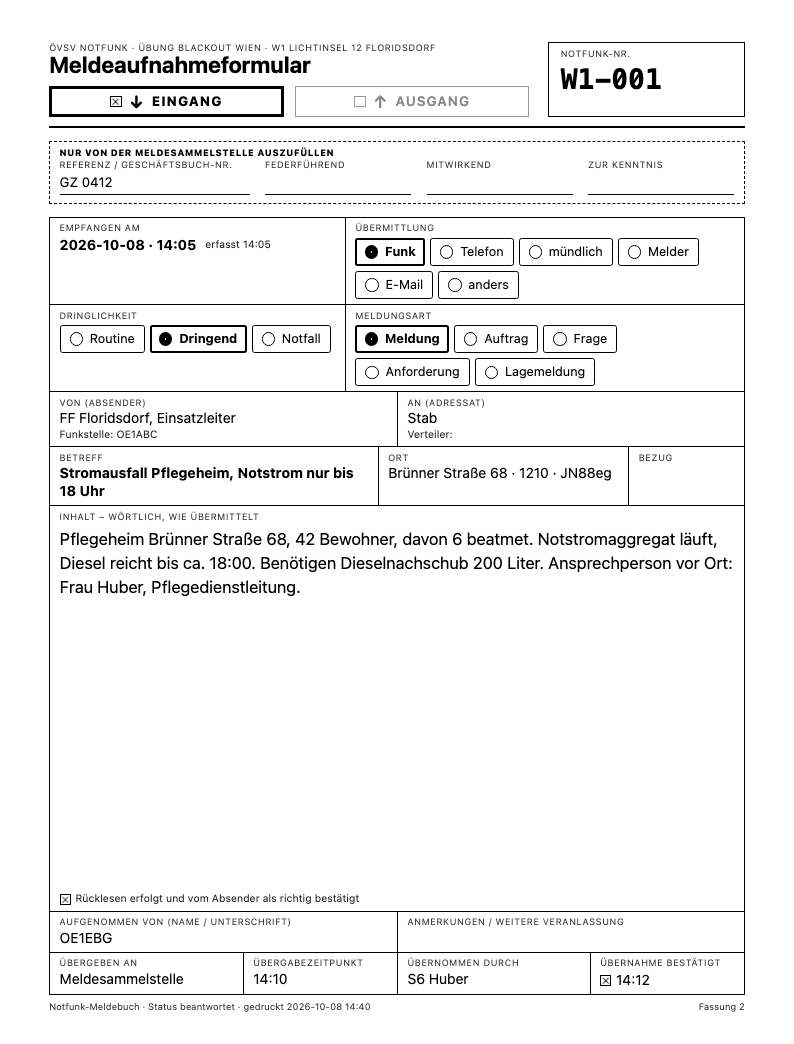
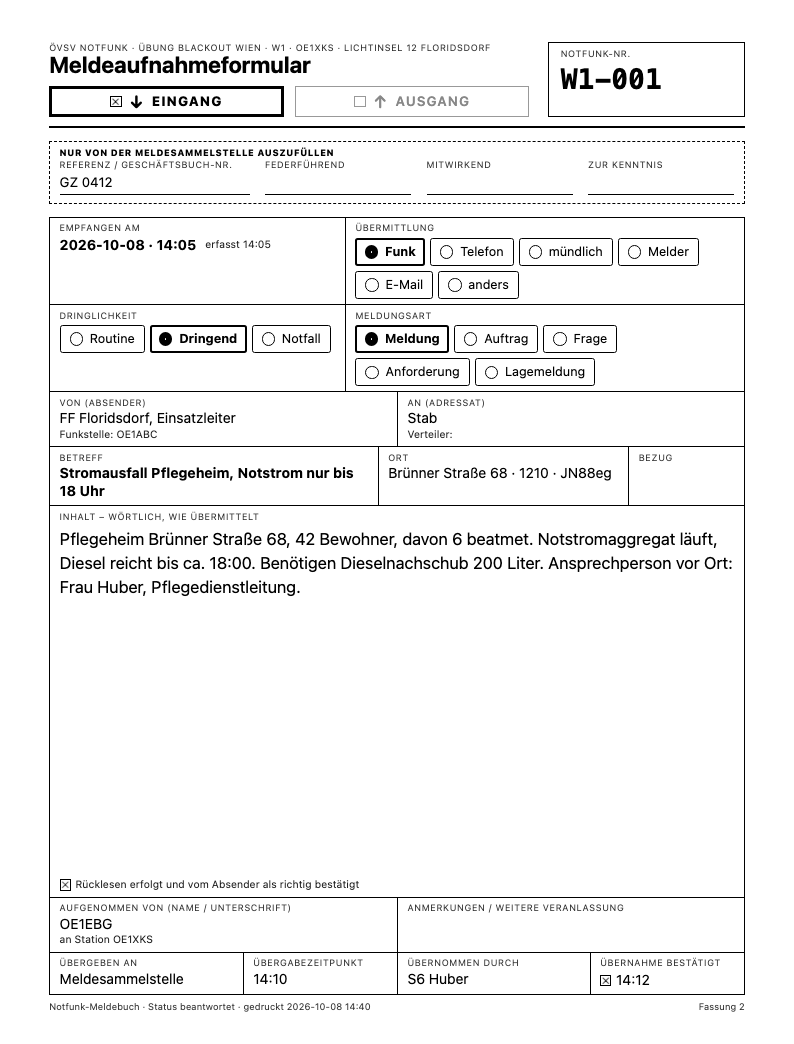
feat(notfunk): own station callsign, Einsatz fields in groups
- New Einsatz field "Stationsrufzeichen" (e.g. a club station OE1XKS,
  apart from the operator OE1EBG), kept with every message as
  stationCall like the operator: form head ("Station OE1XKS ·
  Aufnahme OE1EBG"), Einsatz summary, printout header and "an Station"
  under "Aufgenommen von", CSV column "Stationsrufzeichen", book printout.
- Einsatz fields in groups (variant A): Einsatz (name, code), "Eigene
  Station" (callsign, "Standort der Station (Adresse)", Für Stelle,
  frequency, relay), "Am Gerät" (operator).
- Book list: below Von → An by radio the Funkstelle and "via <relay>"
  or "direkt" (then the frequency); other channels as before.

Changed region(s): [[0.0605, 0.8276, 0.4534, 0.9195], [0.5139, 0.8582, 0.7859, 0.8889], [0.3627, 0.0307, 0.6045, 0.0613]]

diff --git a/tools/notfunk/index.html b/tools/notfunk/index.html
@@ -72,22 +72,35 @@
         <label class="field span-2"><span>Einsatz / Übung</span>
           <input id="n-name" required enterkeyhint="next" placeholder="z. B. Übung Blackout Wien"></label>
         <label class="field"><span>Stationskürzel</span>
-          <input id="n-prefix" required maxlength="6" class="mono" autocapitalize="characters" autocorrect="off" spellcheck="false" enterkeyhint="next" placeholder="W1" aria-describedby="n-prefix-help"></label>
-        <label class="field span-2"><span>Standort der Station</span>
-          <input id="n-station" enterkeyhint="next" placeholder="z. B. Einsatzleitstelle, Lichtinsel 12" aria-describedby="n-station-help"></label>
-        <div class="field ac-field"><label for="n-operator">Operator</label>
-          <div class="ac-wrap"><input id="n-operator" class="mono call-input" autocapitalize="characters" autocorrect="off" spellcheck="false" enterkeyhint="next" aria-describedby="n-operator-info"><div id="n-operator-pop" class="ac-pop"></div></div>
-          <div class="ac-hints"><div id="n-operator-info" class="ac-info" aria-live="polite"></div></div></div>
-        <label class="field"><span>Für Stelle</span>
-          <input id="n-home" enterkeyhint="next" placeholder="Stab" aria-describedby="n-home-help"></label>
-        <label class="field"><span>Frequenz MHz</span>
-          <input id="n-freq" class="mono" inputmode="decimal" enterkeyhint="next" placeholder="145.500"></label>
-        <div class="field ac-field"><label for="n-via">Relais</label>
-          <div class="ac-wrap"><input id="n-via" class="mono call-input" autocapitalize="characters" autocorrect="off" spellcheck="false" enterkeyhint="done" aria-describedby="n-via-info"><div id="n-via-pop" class="ac-pop"></div></div>
-          <div class="ac-hints"><div id="n-via-info" class="ac-info" aria-live="polite"></div></div></div>
+          <input id="n-prefix" required maxlength="6" class="mono call-input" autocapitalize="characters" autocorrect="off" spellcheck="false" enterkeyhint="next" placeholder="W1" aria-describedby="n-prefix-help"></label>
       </div>
+      <fieldset class="op-group">
+        <legend>Eigene Station</legend>
+        <div class="grid-form op-grid">
+          <div class="field"><label for="n-call">Stationsrufzeichen</label>
+            <input id="n-call" class="mono call-input" autocapitalize="characters" autocorrect="off" spellcheck="false" enterkeyhint="next" placeholder="OE1XKS" aria-describedby="n-call-info" title="Rufzeichen der eigenen Funkstation, z. B. die Klubstation; kann vom Rufzeichen des Operators abweichen">
+            <div class="ac-hints"><div id="n-call-info" class="ac-info" aria-live="polite"></div></div></div>
+          <label class="field span-2"><span>Standort der Station (Adresse)</span>
+            <input id="n-station" enterkeyhint="next" placeholder="z. B. Lichtinsel 12, Brünner Straße 68" aria-describedby="n-station-help" title="Wo das eigene Funkgerät steht (steht oben im Ausdruck)"></label>
+          <label class="field"><span>Für Stelle</span>
+            <input id="n-home" enterkeyhint="next" placeholder="Stab" aria-describedby="n-home-help" title="Für wen die Station arbeitet, z. B. Stab: Vorgabe für An (Eingang) bzw. Von (Ausgang)"></label>
+          <label class="field"><span>Frequenz MHz</span>
+            <input id="n-freq" class="mono" inputmode="decimal" enterkeyhint="next" placeholder="145.500"></label>
+          <div class="field ac-field"><label for="n-via">Relais</label>
+            <div class="ac-wrap"><input id="n-via" class="mono call-input" autocapitalize="characters" autocorrect="off" spellcheck="false" enterkeyhint="next" aria-describedby="n-via-info"><div id="n-via-pop" class="ac-pop"></div></div>
+            <div class="ac-hints"><div id="n-via-info" class="ac-info" aria-live="polite"></div></div></div>
+        </div>
+      </fieldset>
+      <fieldset class="op-group">
+        <legend>Am Gerät</legend>
+        <div class="grid-form op-grid">
+          <div class="field ac-field"><label for="n-operator">Operator</label>
+            <div class="ac-wrap"><input id="n-operator" class="mono call-input" autocapitalize="characters" autocorrect="off" spellcheck="false" enterkeyhint="done" aria-describedby="n-operator-info" title="Wer hier am Gerät aufnimmt; beim Schichtwechsel ändern"><div id="n-operator-pop" class="ac-pop"></div></div>
+            <div class="ac-hints"><div id="n-operator-info" class="ac-info" aria-live="polite"></div></div></div>
+        </div>
+      </fieldset>
       <p class="hint" id="n-prefix-help">Das Kürzel steht vor jeder Nummer (W1-001, W1-002 …). Jedes Gerät bzw. jede Station eines Einsatzes bekommt ein eigenes Kürzel, dann lassen sich die Bücher ohne doppelte Nummern zusammenführen.</p>
-      <p class="hint" id="n-station-help">Standort der Station: wo das eigene Funkgerät steht (steht oben im Ausdruck).</p>
+      <p class="hint" id="n-station-help">Stationsrufzeichen und Standort der Station (Adresse): die eigene Funkstation, z. B. OE1XKS in der Lichtinsel 12; das Rufzeichen kann vom Operator abweichen. Beides steht oben im Ausdruck.</p>
       <p class="hint" id="n-home-help">Für Stelle: für wen die Station arbeitet, z. B. Stab. Steht bei neuen Meldungen als Adressat eingehender und Absender ausgehender Meldungen, solange nichts anderes eingetragen ist.</p>
       <div class="toolbar form-foot">
         <button type="submit" class="primary">Einsatz anlegen</button>
@@ -138,21 +151,39 @@
 
     <details class="hdr" id="op-panel">
       <summary><b>Einsatz</b> <span class="hdr-sum" id="op-sum"></span></summary>
-      <div class="body">
-        <div class="grid-form op-grid" id="op-form">
-          <label class="field span-2"><span>Einsatz / Übung</span><input id="e-name" enterkeyhint="next"></label>
-          <label class="field"><span>Stationskürzel</span><input id="e-prefix" maxlength="6" class="mono call-input" autocapitalize="characters" autocorrect="off" spellcheck="false" enterkeyhint="next" aria-describedby="e-prefix-help"></label>
-          <label class="field span-2"><span>Standort der Station</span><input id="e-station" enterkeyhint="next" title="Wo das eigene Funkgerät steht (steht oben im Ausdruck)"></label>
-          <div class="field ac-field"><label for="e-operator">Operator</label>
-          <div class="ac-wrap"><input id="e-operator" class="mono call-input" autocapitalize="characters" autocorrect="off" spellcheck="false" enterkeyhint="next" aria-describedby="e-operator-info"><div id="e-operator-pop" class="ac-pop"></div></div>
-          <div class="ac-hints"><div id="e-operator-info" class="ac-info" aria-live="polite"></div></div></div>
-          <label class="field"><span>Für Stelle</span><input id="e-home" enterkeyhint="next" title="Für wen die Station arbeitet, z. B. Stab: Vorgabe für An (Eingang) bzw. Von (Ausgang)"></label>
-          <label class="field"><span>Frequenz MHz</span><input id="e-freq" class="mono" inputmode="decimal" enterkeyhint="next"></label>
-          <div class="field ac-field"><label for="e-via">Relais</label>
-          <div class="ac-wrap"><input id="e-via" class="mono call-input" autocapitalize="characters" autocorrect="off" spellcheck="false" enterkeyhint="done" aria-describedby="e-via-info"><div id="e-via-pop" class="ac-pop"></div></div>
-          <div class="ac-hints"><div id="e-via-info" class="ac-info" aria-live="polite"></div></div></div>
+      <div class="body" id="op-form">
+        <div class="grid-form op-grid">
+          <label class="field span-2"><span>Einsatz / Übung</span>
+            <input id="e-name" enterkeyhint="next"></label>
+          <label class="field"><span>Stationskürzel</span>
+            <input id="e-prefix" maxlength="6" class="mono call-input" autocapitalize="characters" autocorrect="off" spellcheck="false" enterkeyhint="next" aria-describedby="e-prefix-help"></label>
         </div>
-        <p class="hint">Änderungen gelten für neue Meldungen; gespeicherte behalten Operator, Frequenz und Nummer vom Zeitpunkt der Aufnahme. Ein Operatorwechsel (Schichtwechsel) wird hier eingetragen.</p>
+        <fieldset class="op-group">
+          <legend>Eigene Station</legend>
+          <div class="grid-form op-grid">
+            <div class="field"><label for="e-call">Stationsrufzeichen</label>
+              <input id="e-call" class="mono call-input" autocapitalize="characters" autocorrect="off" spellcheck="false" enterkeyhint="next" aria-describedby="e-call-info" title="Rufzeichen der eigenen Funkstation, z. B. die Klubstation; kann vom Rufzeichen des Operators abweichen">
+              <div class="ac-hints"><div id="e-call-info" class="ac-info" aria-live="polite"></div></div></div>
+            <label class="field span-2"><span>Standort der Station (Adresse)</span>
+              <input id="e-station" enterkeyhint="next" title="Wo das eigene Funkgerät steht (steht oben im Ausdruck)"></label>
+            <label class="field"><span>Für Stelle</span>
+              <input id="e-home" enterkeyhint="next" title="Für wen die Station arbeitet, z. B. Stab: Vorgabe für An (Eingang) bzw. Von (Ausgang)"></label>
+            <label class="field"><span>Frequenz MHz</span>
+              <input id="e-freq" class="mono" inputmode="decimal" enterkeyhint="next"></label>
+            <div class="field ac-field"><label for="e-via">Relais</label>
+              <div class="ac-wrap"><input id="e-via" class="mono call-input" autocapitalize="characters" autocorrect="off" spellcheck="false" enterkeyhint="next" aria-describedby="e-via-info"><div id="e-via-pop" class="ac-pop"></div></div>
+              <div class="ac-hints"><div id="e-via-info" class="ac-info" aria-live="polite"></div></div></div>
+          </div>
+        </fieldset>
+        <fieldset class="op-group">
+          <legend>Am Gerät</legend>
+          <div class="grid-form op-grid">
+            <div class="field ac-field"><label for="e-operator">Operator</label>
+              <div class="ac-wrap"><input id="e-operator" class="mono call-input" autocapitalize="characters" autocorrect="off" spellcheck="false" enterkeyhint="done" aria-describedby="e-operator-info" title="Wer hier am Gerät aufnimmt; beim Schichtwechsel ändern"><div id="e-operator-pop" class="ac-pop"></div></div>
+              <div class="ac-hints"><div id="e-operator-info" class="ac-info" aria-live="polite"></div></div></div>
+          </div>
+        </fieldset>
+        <p class="hint">Änderungen gelten für neue Meldungen; gespeicherte behalten Stationsrufzeichen, Operator, Frequenz und Nummer vom Zeitpunkt der Aufnahme. Ein Operatorwechsel (Schichtwechsel) wird hier eingetragen.</p>
         <p class="hint" id="e-prefix-help">Das Stationskürzel lässt sich nur ändern, solange der Einsatz noch keine Meldung hat.</p>
         <p id="op-status" class="form-status" role="status"></p>
       </div>
@@ -164,7 +195,7 @@
       <div class="form-head">
         <span id="form-title" class="form-title">Neue Meldung</span>
         <span id="form-number" class="mono accent" title="Die Nummer wird erst beim Speichern vergeben"></span>
-        <button type="button" id="btn-form-op" class="link sub" title="Operator wechseln (Schichtwechsel): im Feld „Einsatz“">Aufnahme <b id="form-op" class="mono"></b></button>
+        <button type="button" id="btn-form-op" class="link sub" title="Station und Operator (Schichtwechsel): im Feld „Einsatz“"><span id="form-station"></span>Aufnahme <b id="form-op" class="mono"></b></button>
         <span id="form-reply" class="chip" hidden></span>
         <span class="spacer"></span>
         <span id="draft-status" class="draft-status" role="status"></span>
@@ -361,6 +392,7 @@
           <dt>Für Stelle</dt><dd>für wen die eigene Station arbeitet <span class="ex">Stab</span>; im Einsatz eingetragen. Steht bei Eingängen automatisch bei An, bei Ausgängen bei Von.</dd>
           <dt>Funkstelle</dt><dd>die Funkstation, von der die Meldung gehört wurde (Eingang) bzw. an die sie gesendet wird (Ausgang). <span class="ex">OE1ABC</span> Unbekannte Stationen einfach eintippen.</dd>
           <dt>Ursprungsstation</dt><dd>Station, bei der die Meldung ursprünglich aufgegeben wurde; bei Weitergaben oft nicht die Funkstelle.</dd>
+          <dt>Stationsrufzeichen</dt><dd>das Rufzeichen der eigenen Funkstation <span class="ex">OE1XKS</span>, z. B. einer Klubstation; im Einsatz eingetragen und bei jeder Meldung mitgespeichert. Kann vom Rufzeichen des Operators abweichen.</dd>
           <dt>Operator</dt><dd>wer hier am Gerät aufnimmt („Aufnahme“ oben im Formular). Beim Schichtwechsel im Feld „Einsatz“ ändern; gespeicherte Meldungen behalten ihren Operator.</dd>
         </dl>
       </section>
@@ -369,7 +401,7 @@
         <dl class="kb">
           <dt>Ort</dt><dd>wo das gemeldete Ereignis ist. <span class="ex">Brünner Straße 68</span> <span class="ex">JN88EG</span> Ein Vorschlag ergänzt Postleitzahl und Locator; der Inhalt der Meldung bleibt unverändert.</dd>
           <dt>Ursprungsort</dt><dd>wo die Meldung ursprünglich aufgegeben wurde; kann vom Ereignisort abweichen.</dd>
-          <dt>Standort der Station</dt><dd>wo das eigene Funkgerät steht <span class="ex">Lichtinsel 12 Floridsdorf</span>; im Einsatz eingetragen, gilt für alle Meldungen.</dd>
+          <dt>Standort der Station (Adresse)</dt><dd>wo das eigene Funkgerät steht <span class="ex">Lichtinsel 12 Floridsdorf</span>; im Einsatz eingetragen, gilt für alle Meldungen.</dd>
         </dl>
       </section>
       <section id="h-when" aria-labelledby="h-when-t">

diff --git a/tools/notfunk/js/app.js b/tools/notfunk/js/app.js
@@ -170,7 +170,7 @@ async function renderOps() {
     },
     el('div', { class: 'info' },
       el('div', { class: 't' }, op.name),
-      el('div', { class: 'meta' }, `${fmtVienna(op.created).split(' ')[0]} · Station ${op.prefix}${op.station ? ` ${op.station}` : ''} · ${counts.get(op.id) || 0} Meldungen`),
+      el('div', { class: 'meta' }, `${fmtVienna(op.created).split(' ')[0]} · ${['Station', op.prefix, op.call].filter(Boolean).join(' ')}${op.station ? ` · ${op.station}` : ''} · ${counts.get(op.id) || 0} Meldungen`),
       el('div', { class: 'meta' }, [op.operator && `Op ${op.operator}`, op.home && `für ${op.home}`, op.freq && `${fmtFreq(op.freq)} MHz`, op.via && `via ${op.via}`].filter(Boolean).join(' · '))),
     el('div', { class: 'actions' }, actions));
   }));
@@ -193,12 +193,14 @@ function openNewOpForm() {
   form.hidden = false;
   const last = JSON.parse(prefGet(LAST_OP_KEY) || '{}');
   $('#n-prefix').value = last.prefix || '';
+  $('#n-call').value = last.call || '';
   $('#n-station').value = last.station || '';
   $('#n-operator').value = last.operator || '';
   $('#n-home').value = last.home || 'Stab';
   $('#n-freq').value = fmtFreq(last.freq || '');
   $('#n-via').value = last.via || '';
   renderPartyInfo('#n-operator', '#n-operator-info');
+  renderPartyInfo('#n-call', '#n-call-info');
   state.newOpRpt?.refresh();
   $('#n-name').focus();
 }
@@ -212,7 +214,7 @@ async function createOp() {
   status.textContent = '';
   const now = nowIso();
   const op = {
-    id: newId(), name: v('#n-name'), prefix, station: v('#n-station'), operator: normalizeCall(v('#n-operator')),
+    id: newId(), name: v('#n-name'), prefix, call: normalizeCall(v('#n-call')), station: v('#n-station'), operator: normalizeCall(v('#n-operator')),
     home: v('#n-home'), freq: normFreq(v('#n-freq')), via: normalizeCall(v('#n-via')), created: now, updated: now, archived: false, deleted: null,
   };
   try {
@@ -221,7 +223,7 @@ async function createOp() {
     showSaveError(e);
     return;
   }
-  prefSet(LAST_OP_KEY, JSON.stringify({ prefix, station: op.station, operator: op.operator, home: op.home, freq: op.freq, via: op.via }));
+  prefSet(LAST_OP_KEY, JSON.stringify({ prefix, call: op.call, station: op.station, operator: op.operator, home: op.home, freq: op.freq, via: op.via }));
   $('#new-op').hidden = true;
   $('#new-op').reset();
   broadcast({ type: 'ops' });
@@ -234,7 +236,7 @@ async function createOp() {
 // changes apply to new messages (stored ones keep what they were saved
 // with). The station code is the number prefix: it can only change while
 // the operation has no message, so no number is ever ambiguous.
-const OP_FIELDS = { name: '#e-name', prefix: '#e-prefix', station: '#e-station', operator: '#e-operator', home: '#e-home', freq: '#e-freq', via: '#e-via' };
+const OP_FIELDS = { name: '#e-name', prefix: '#e-prefix', call: '#e-call', station: '#e-station', operator: '#e-operator', home: '#e-home', freq: '#e-freq', via: '#e-via' };
 const OP_PANEL_KEY = 'oe1ebg-notfunk-op-open';
 
 function renderOpPanel() {
@@ -242,10 +244,13 @@ function renderOpPanel() {
   for (const [k, sel] of Object.entries(OP_FIELDS)) if (document.activeElement !== $(sel)) $(sel).value = k === 'freq' ? fmtFreq(op[k] || '') : op[k] || '';
   $('#e-prefix').readOnly = state.msgs.length > 0;
   renderPartyInfo('#e-operator', '#e-operator-info');
+  renderPartyInfo('#e-call', '#e-call-info');
   state.opRpt?.refresh();
   $('#book-title').textContent = op.name;
   setText($('#op-sum'), [
-    `${op.prefix}${op.station ? ` ${op.station}` : ''}`,
+    op.prefix,
+    op.call,
+    op.station,
     op.operator ? `Op ${op.operator}` : 'Operator fehlt',
     op.home && `für ${op.home}`,
     op.freq && `${fmtFreq(op.freq)} MHz`,
@@ -260,7 +265,7 @@ async function saveOpPanel() {
   const v = sel => $(sel).value.trim();
   const status = $('#op-status');
   const patch = {
-    name: v('#e-name') || op.name, station: v('#e-station'), operator: normalizeCall(v('#e-operator')),
+    name: v('#e-name') || op.name, call: normalizeCall(v('#e-call')), station: v('#e-station'), operator: normalizeCall(v('#e-operator')),
     home: v('#e-home'), freq: normFreq(v('#e-freq')), via: normalizeCall(v('#e-via')),
   };
   const prefix = normalizePrefix(v('#e-prefix'));
@@ -292,7 +297,7 @@ async function saveOpPanel() {
   bookStatus(`Einsatz geändert: ${Object.keys(patch).filter(k => (op[k] || '') !== patch[k]).map(k => OP_LABELS[k]).join(', ')}`);
 }
 
-const OP_LABELS = { name: 'Name', prefix: 'Stationskürzel', station: 'Standort der Station', operator: 'Operator', home: 'Für Stelle', freq: 'Frequenz', via: 'Relais' };
+const OP_LABELS = { name: 'Name', prefix: 'Stationskürzel', call: 'Stationsrufzeichen', station: 'Standort der Station (Adresse)', operator: 'Operator', home: 'Für Stelle', freq: 'Frequenz', via: 'Relais' };
 
 // Completion on the operator and relay fields of an operation (the
 // "+ Neuer Einsatz" form and the Einsatz panel), as in the confirmation
@@ -316,6 +321,7 @@ function attachOpLookups(prefix, onChange) {
     onPick: () => { renderPartyInfo(`#${prefix}-operator`, `#${prefix}-operator-info`); onChange(); },
   });
   op.addEventListener('input', () => renderPartyInfo(`#${prefix}-operator`, `#${prefix}-operator-info`));
+  $(`#${prefix}-call`).addEventListener('input', () => renderPartyInfo(`#${prefix}-call`, `#${prefix}-call-info`));
   const via = $(`#${prefix}-via`);
   return attachRepeaterSearch({
     input: via, pop: $(`#${prefix}-via-pop`), info: $(`#${prefix}-via-info`),
@@ -513,6 +519,7 @@ function renderFormState() {
   const editing = state.editing;
   setText($('#form-title'), editing ? 'Meldung bearbeiten' : 'Neue Meldung');
   setText($('#form-number'), editing ? editing.number : `→ ${previewNumber()}`);
+  setText($('#form-station'), state.op.call ? `Station ${state.op.call} · ` : '');
   setText($('#form-op'), state.op.operator || 'Operator fehlt');
   $('#form-op').classList.toggle('warn-text', !state.op.operator);
   // the Bezug: a number of this operation shows what it refers to
@@ -716,7 +723,7 @@ async function saveMessageNow(anyway) {
       saved = next;
     } else {
       saved = await saveNumbered(state.store, { opId: op.id, prefix: op.prefix, recordStore: 'messages' },
-        numbered => newMessage(fields, numbered, { id: newId(), opId: op.id, operator, now }));
+        numbered => newMessage(fields, numbered, { id: newId(), opId: op.id, operator, stationCall: op.call || '', now }));
       // A reply marks the message it answers as answered.
       const orig = saved.refKind === 'antwort' && saved.replyTo && state.msgs.find(m => m.id === saved.replyTo);
       if (orig && STATUS_FLOW.indexOf(currentStatus(orig)) < STATUS_FLOW.indexOf('answered')) {
@@ -1025,7 +1032,10 @@ function renderBook() {
         el('td', { class: 'mono' }, viennaTime(m.ts)),
         el('td', { class: 'nowrap' }, m.direction === 'in' ? '↓ Ein' : '↑ Aus'),
         el('td', { class: 'parties' }, partyText(m.from), el('span', { class: 'dim' }, ' → '), partyText(m.to),
-          el('div', { class: 'sub' }, [CHANNELS[m.channel], m.peer, fmtFreq(m.radio.freq), m.radio.via && `via ${m.radio.via}`, m.stichzeit && `Stichzeit ${viennaTime(m.stichzeit)}`].filter(Boolean).join(' · '))),
+          // below: by radio the Funkstelle and via relay or direct; else the channel
+          el('div', { class: 'sub' }, (m.channel === 'funk'
+            ? [m.peer, m.radio.via ? `via ${m.radio.via}` : 'direkt', fmtFreq(m.radio.freq)]
+            : [CHANNELS[m.channel]]).concat(m.stichzeit ? `Stichzeit ${viennaTime(m.stichzeit)}` : []).filter(Boolean).join(' · '))),
         el('td', { class: 'content' }, el('b', {}, m.subject || ''), el('div', { class: 'sub clamp' }, m.text)),
         el('td', { class: 'nowrap' }, MESSAGE_TYPES[m.type], el('div', {}, prioPill(m))),
         el('td', { class: 'nowrap' }, statusPill(m), el('div', { class: 'sub mono' }, `${viennaTime(last.at)} ${last.by}`)),

diff --git a/tools/notfunk/js/print.js b/tools/notfunk/js/print.js
@@ -52,7 +52,7 @@ export function formSheet(msg, op, { now, revisions = 0, byId = new Map() }) {
     : [fwd?.to || '', fwd ? viennaTime(fwd.at) : '', ack?.who || '', ack ? viennaTime(ack.at) : ''];
   return {
     title: op?.name || '',
-    station: [op?.prefix, op?.station].filter(Boolean).join(' '),
+    station: [op?.prefix, msg.stationCall || op?.call, op?.station].filter(Boolean).join(' · '),
     number: msg.number,
     deleted: !!msg.deleted,
     direction: msg.direction,
@@ -82,6 +82,7 @@ export function formSheet(msg, op, { now, revisions = 0, byId = new Map() }) {
         ? `Ursprung: ${[msg.origin.station, msg.origin.place, msg.origin.filed ? `aufgegeben ${fmtVienna(msg.origin.filed)}` : ''].filter(Boolean).join(' · ')}` : '',
     ].filter(Boolean).join(' · '),
     operator: msg.operator,
+    stationCall: msg.stationCall || '',
     remarks: msg.remarks || '',
     handoverHeads: HANDOVER_HEADS[msg.direction] || HANDOVER_HEADS.in,
     handover,
@@ -108,7 +109,7 @@ export function blankFormSheet(op, { now }) {
     type: '', types: paperOptions(Object.entries(MESSAGE_TYPES), null),
     from: '', to: '', peer: '', distribution: '', subject: '', location: '', ref: '', text: '',
     readBack: false, readBackLabel: 'Rücklesen erfolgt und als richtig bestätigt',
-    extra: '', operator: '', remarks: '',
+    extra: '', operator: '', stationCall: '', remarks: '',
     handoverHeads: HANDOVER_HEADS.blank, handover: ['', '', '', ''], handoverDone: false,
     status: '', printed: fmtVienna(now), version: null,
   };
@@ -132,7 +133,7 @@ export function bookSheet(msgs, op, { now, fromIso = null, toIso = null }) {
     });
   return {
     title: op?.name || '',
-    station: [op?.prefix, op?.station].filter(Boolean).join(' '),
+    station: [op?.prefix, op?.call, op?.station].filter(Boolean).join(' · '),
     range: fromIso || toIso ? `${fromIso ? fmtVienna(fromIso) : 'Beginn'} bis ${toIso ? fmtVienna(toIso) : 'jetzt'}` : 'gesamter Einsatz',
     printed: fmtVienna(now),
     rows,

diff --git a/tools/notfunk/js/export.js b/tools/notfunk/js/export.js
@@ -33,7 +33,7 @@ export const GB_COLUMNS = [
   'Notfunk-Nr.', 'Referenz Meldesammelstelle', 'Datum', 'Uhrzeit', 'Zeitstempel (ISO 8601)', 'Ein/Aus', 'eingegangen von / weitergeleitet an', 'Betreff', 'Inhalt',
   'Art', 'Dringlichkeit', 'Übermittlung', 'Funkstelle', 'Frequenz/Relais', 'Absender', 'Adressat', 'Verteiler',
   'Rücklesen bestätigt', 'Status', 'Übergeben / übertragen an', 'Übergeben / übertragen um', 'Übernommen / Empfang bestätigt durch',
-  'Bezug', 'Ort', 'Aufgenommen von', 'Erfasst', 'Anmerkungen',
+  'Bezug', 'Ort', 'Aufgenommen von', 'Stationsrufzeichen', 'Erfasst', 'Anmerkungen',
 ];
 
 export function toGeschaeftsbuchCSV(msgs, sep = ';') {
@@ -52,7 +52,7 @@ export function toGeschaeftsbuchCSV(msgs, sep = ';') {
       m.readBack ? 'ja' : '', statusLabel(currentStatus(m), m.direction),
       fwd?.to || '', fwd ? viennaTime(fwd.at) : '', ack ? [ack.who, viennaTime(ack.at)].filter(Boolean).join(' ') : '',
       ref ? `${REF_KINDS[m.refKind] || REF_KINDS.antwort} ${ref}` : '',
-      m.location ? m.location.label || `${m.location.lat}, ${m.location.lon}` : '', m.operator, fmtVienna(m.created), m.remarks,
+      m.location ? m.location.label || `${m.location.lat}, ${m.location.lon}` : '', m.operator, m.stationCall || '', fmtVienna(m.created), m.remarks,
     ]);
   }
   return '\ufeff' + rows.map(r => r.map(v => csvField(v, sep)).join(sep)).join('\r\n') + '\r\n';

diff --git a/tools/notfunk/js/model.js b/tools/notfunk/js/model.js
@@ -135,7 +135,9 @@ export function readBackLabel(direction) {
 }
 
 // A new message record. numbered: { prefix, seq, number } from
-// numbering.saveNumbered(); meta: { id, opId, operator, now }.
+// numbering.saveNumbered(); meta: { id, opId, operator, stationCall, now }
+// (the own station's callsign and the operator as they were when it was
+// taken down: a later change of the operation leaves them as they are).
 export function newMessage(fields, numbered, meta) {
   const f = messageFields(fields);
   const errs = validateMessage(f);
@@ -145,6 +147,7 @@ export function newMessage(fields, numbered, meta) {
     prefix: numbered.prefix, seq: numbered.seq, number: numbered.number,
     ...f,
     operator: trimmed(meta.operator).toUpperCase(),
+    stationCall: trimmed(meta.stationCall).toUpperCase(),
     status: [{ state: 'logged', at: meta.now, by: trimmed(meta.operator).toUpperCase(), note: '' }],
     attempts: [],
     created: meta.now, updated: meta.now, deleted: null,

diff --git a/tools/notfunk/js/printview.js b/tools/notfunk/js/printview.js
@@ -117,7 +117,8 @@ export function renderFormSheet(s) {
       s.blank ? el('div', { class: 'pf-write' }) : el('p', {}, s.text || '–'),
       el('div', { class: 'pf-small' }, box(s.readBack, s.readBackLabel), s.extra ? ` · ${s.extra}` : '')),
     el('div', { class: 'pf-row pf-2' },
-      cell('Aufgenommen von (Name / Unterschrift)', val(s.operator)),
+      cell('Aufgenommen von (Name / Unterschrift)', val(s.operator),
+        el('div', { class: 'pf-small' }, `an Station ${s.blank ? '______________' : s.stationCall || '–'}`)),
       cell('Anmerkungen / weitere Veranlassung', val(s.remarks))),
     el('div', { class: 'pf-row pf-4' },
       ...s.handoverHeads.map((h, i) => cell(h,

diff --git a/tools/notfunk/style.css b/tools/notfunk/style.css
@@ -97,6 +97,9 @@ details.hdr > summary::before{ content:"▸"; color:var(--text-dim); }
 details.hdr[open] > summary::before{ content:"▾"; }
 details.hdr .body{ padding:0 1em 1em; }
 details.hdr .hint{ margin:.6em 0 0; }
+/* the Einsatz fields in groups: the own station, the person at the radio */
+fieldset.op-group{ margin:.8em 0 0; padding:.6em 0 0; border:none; border-top:1px dashed var(--line-strong); min-width:0; }
+fieldset.op-group > legend{ padding:0 .4em 0 0; font-size:13.5px; font-weight:700; color:var(--text); }
 .hdr-sum{ font-family:var(--font-mono); font-size:14.5px; }
 .warn-text{ color:var(--warn); }
 #msg-form{

diff --git a/docs/notfunk-anleitung.md b/docs/notfunk-anleitung.md
@@ -55,10 +55,17 @@ eine neue Sicherung (JSON) herunter.
 | --- | --- | --- |
 | Einsatz / Übung | Name des Einsatzes | Übung Blackout Wien |
 | Stationskürzel | steht vor jeder Nummer; jedes Gerät bzw. jede Station eines Einsatzes bekommt ein eigenes | W1 |
-| Standort der Station | wo das eigene Funkgerät steht; steht oben im Ausdruck | Lichtinsel 12 Floridsdorf |
-| Operator | wer am Gerät aufnimmt | OE1EBG |
+| **Eigene Station:** | | |
+| Stationsrufzeichen | Rufzeichen der eigenen Funkstation, z. B. die Klubstation; kann vom Rufzeichen des Operators abweichen | OE1XKS |
+| Standort der Station (Adresse) | wo das eigene Funkgerät steht; steht oben im Ausdruck | Lichtinsel 12 Floridsdorf |
 | Für Stelle | für wen die Station arbeitet: Adressat eingehender und Absender ausgehender Meldungen, solange nichts anderes eingetragen ist | Stab |
 | Frequenz, Relais | Vorgabe für neue Meldungen | 145,500 · OE1XUU |
+| **Am Gerät:** | | |
+| Operator | wer am Gerät aufnimmt; beim Schichtwechsel ändern | OE1EBG |
+
+Stationsrufzeichen und Operator werden bei jeder Meldung mitgespeichert: Im
+Ausdruck steht „Aufgenommen von OE1EBG, an Station OE1XKS“, im Geschäftsbuch
+(CSV) gibt es eine Spalte „Stationsrufzeichen“.
 
 Alles außer dem Stationskürzel lässt sich später im aufklappbaren Feld
 **„Einsatz“** über dem Formular ändern; Änderungen gelten für neue Meldungen.
@@ -136,7 +143,7 @@ Unter **„Weitere Felder“**:
 
 - **Ort:** wo das Ereignis ist.
 - **Ursprungsort:** wo die Meldung aufgegeben wurde.
-- **Standort der Station:** wo das eigene Funkgerät steht; wird im Einsatz
+- **Standort der Station (Adresse):** wo das eigene Funkgerät steht; wird im Einsatz
   eingetragen, nicht bei der Meldung.
 
 Die Ortssuche schlägt Wiener Adressen, Orte, Plätze und Haltestellen vor und

diff --git a/tools/notfunk/README.md b/tools/notfunk/README.md
@@ -135,8 +135,10 @@ name, and a distribution list ("Verteiler").
 ## Using it
 
 - **Einsätze:** an operation has a name, a **station code** (the number
-  prefix, e.g. `W1`; one per device or station), where the station is
-  ("Standort der Station", `station`), the operator, the **own post** ("Für
+  prefix, e.g. `W1`; one per device or station), the own station's
+  callsign ("Stationsrufzeichen", `call`, e.g. a club station; kept with
+  every message as `stationCall`, like the operator), where the station
+  is ("Standort der Station (Adresse)", `station`), the operator, the **own post** ("Für
   Stelle", `home`, e.g. "Stab": recipient of
   incoming and sender of outgoing messages unless typed otherwise), and a
   default frequency/relay.
